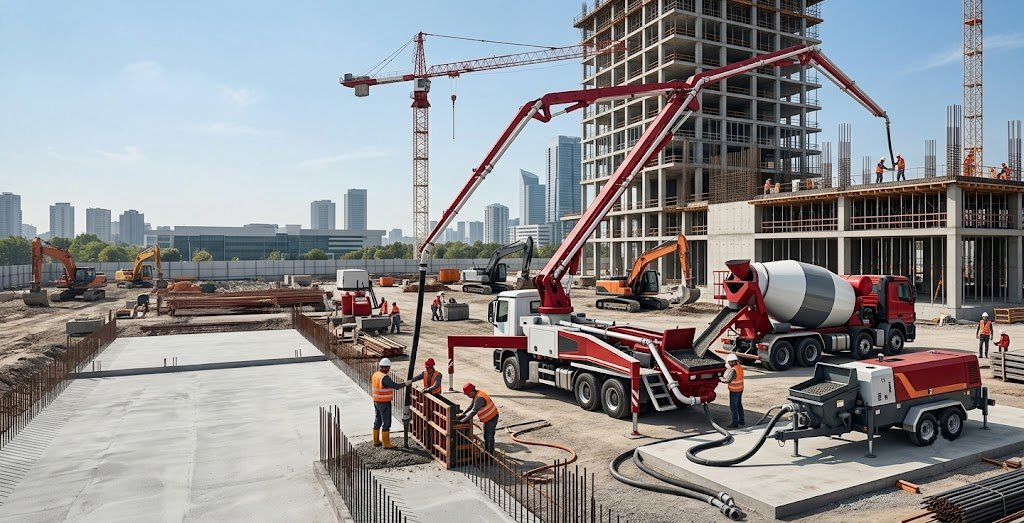
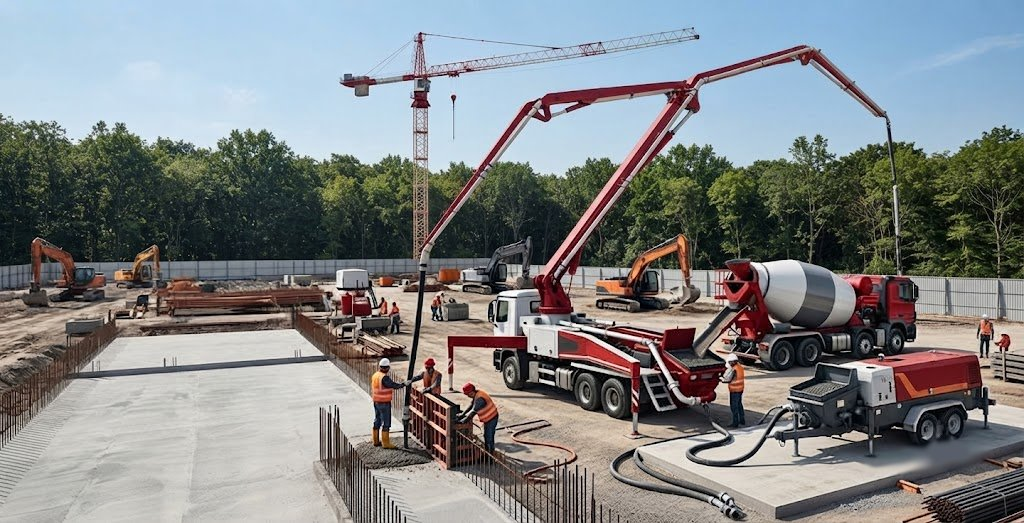
changes given by client

diff --git a/constants/data.js b/constants/data.js
@@ -11,19 +11,19 @@ const services = [
     },
 
     {
-        title: "Concrete Pumps & Boom Pumps",
-        icon: "/nmenterpriseimages/service/icon/concrete-pump.png",
-        alt: "Concrete Pumps and Boom Pumps",
+        title: "Manpower Services",
+        icon: "/nmenterpriseimages/service/icon/manpower.png",
+        alt: "Manpower Services",
         description:
-            "Sales, service and support for concrete pumps and boom pump equipment."
+            "Skilled manpower including supervisors, technicians, operators and helpers for RMC and concrete work."
     },
 
     {
-        title: "Transit Mixers",
-        icon: "/nmenterpriseimages/service/icon/cement-truck.png",
-        alt: "Transit Mixers",
+        title: "Sales & Services",
+        icon: "/nmenterpriseimages/service/icon/concrete-pump.png",
+        alt: "Sales and Services",
         description:
-            "Sales, service and support for transit mixers and related components."
+            "Sales, maintenance and repair services for RMC and concrete equipment, including mixer machines, concrete pumps, home pumps, spare parts and related accessories."
     },
 
     {
@@ -42,14 +42,15 @@ const services = [
             "Maintenance, repair and technical support for RMC and concrete equipment."
     },
 
-    {
-        title: "RMC Equipment & Spare Parts",
-        icon: "/nmenterpriseimages/service/icon/settings.png",
-        alt: "RMC Equipment Spare Parts",
-        description:
-            "Sales and service of spare parts for RMC batching plants and concrete equipment."
-    }
+    // {
+    //     title: "RMC Equipment & Spare Parts",
+    //     icon: "/nmenterpriseimages/service/icon/settings.png",
+    //     alt: "RMC Equipment Spare Parts",
+    //     description:
+    //         "Spare parts and accessories for RMC batching plants, concrete pumps, transit mixers and related equipment."
+    // }
 ];
+
 
 const products = [
     {
@@ -418,26 +419,26 @@ const counters = [
     },
     {
         icon: "/nmenterpriseimages/about/icon/gear.png",
-        value: 6,
+        value: 5,
         suffix: "+",
         label: "Core Services",
         alt: "Core Services"
     },
     {
         icon: "/nmenterpriseimages/about/icon/helmet.png",
-        value: 6,
+        value: 30,
         suffix: "+",
         label: "Equipment Range",
         alt: "Equipment Categories"
     },
     {
-        icon: "/nmenterpriseimages/about/icon/loyalty-program.png",
-        value: 4,
+        icon: "/nmenterpriseimages/about/icon/manpower.png",
+        value: 10,
         suffix: "+",
-        label: "Equipment Brands",
-        alt: "Equipment Brands"
+        label: "Manpower & Machinery",
+        alt: "Manpower & Machinery"
     }
-];
+];;
 
 const homeBanners = [
     {
